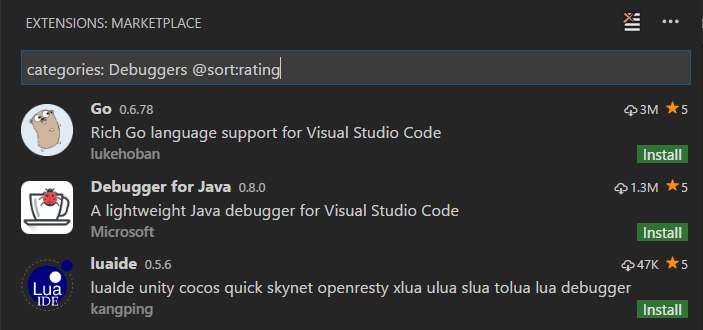
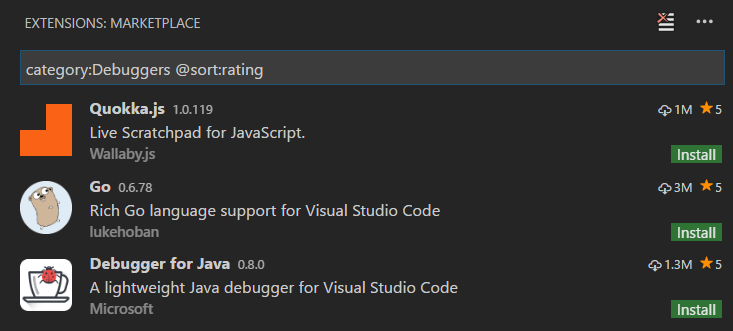
Update Marketplace category and tag filters

diff --git a/docs/editor/extension-gallery.md b/docs/editor/extension-gallery.md
@@ -136,11 +136,11 @@ Extensions can set **Categories** and **Tags** describing their features.
 
 ![extension categories and tags](images/extension-gallery/categories-and-tags.png)
 
-You can filter on category and tag by using `categories:` and `tags:`.
+You can filter on category and tag by using `category:` and `tag:`.
 
 ![categories debuggers](images/extension-gallery/categories-debuggers.png)
 
-Supported categories are: `[Programming Languages, Snippets, Linters, Themes, Debuggers, Formatters, Keymaps, SCM Providers, Other, Extension Packs, Language Packs]`. Tags may contain any string so review the Marketplace to find helpful tags.
+Supported categories are: `[Programming Languages, Snippets, Linters, Themes, Debuggers, Formatters, Keymaps, SCM Providers, Other, Extension Packs, Language Packs]`. Surround the category in quotes if the category name is more than one word (for example, `category:"SCM Providers"`). Tags may contain any string so review the Marketplace to find helpful tags.
 
 ## Install from a VSIX
 

diff --git a/docs/extensionAPI/extension-manifest.md b/docs/extensionAPI/extension-manifest.md
@@ -23,7 +23,7 @@ Name | Required | Type | Details
 `displayName` | | `string`| The display name for the extension used in the Marketplace.
 `description` | | `string` | A short description of what your extension is and does.
 `categories` | | `string[]` | the categories you want to use for the extensions allowed values: `[Programming Languages, Snippets, Linters, Themes, Debuggers, Formatters, Keymaps, SCM Providers, Other, Extension Packs, Language Packs]`
-`keywords` | | `array` | An array of **keywords** or **tags** to make it easier to find the extension.
+`keywords` | | `array` | An array of **keywords** to make it easier to find the extension. These are included with other extension **Tags** on the Marketplace.
 `galleryBanner` | | `object` | Helps format the Marketplace header to match your icon.  See details below.
 `preview` | | `boolean` | Sets the extension to be flagged as a Preview in the Marketplace.
 `main` | | `string` | The entry point to your extension.

diff --git a/blogs/2017/03/07/extension-pack-roundup.md b/blogs/2017/03/07/extension-pack-roundup.md
@@ -65,7 +65,7 @@ There are many reasons to create an Extension Pack:
 
 ## Recommended Extension Packs
 
-You can find the Extension Packs that others have created by querying using the Extension Pack category: click [here](https://marketplace.visualstudio.com/search?target=vscode&category=Extension%20Packs&sortBy=Downloads) for the Marketplace or type `categories:"Extension Pack"` into the Extension View search bar in VS Code.
+You can find the Extension Packs that others have created by querying using the Extension Pack category: click [here](https://marketplace.visualstudio.com/search?target=vscode&category=Extension%20Packs&sortBy=Downloads) for the Marketplace or type `category:"Extension Packs"` into the Extension View search bar in VS Code.
 
 Some of my favorite extensions are:
 

diff --git a/docs/nodejs/extensions.md b/docs/nodejs/extensions.md
@@ -18,7 +18,7 @@ In addition, to these core features, you can install a large number of quality e
 
 ## Finding extensions
 
-You can find JavaScript extensions by typing `JavaScript` in the Extension view search bar. Alternatively, you can find JavaScript extensions using tags: "tag: javascript". Search for more extensions in VS Code or in the [Marketplace](https://marketplace.visualstudio.com/vscode).
+You can find JavaScript extensions by typing `JavaScript` in the Extension view search bar. Alternatively, you can find JavaScript extensions using tags: "tag:javascript". Search for more extensions in VS Code or in the [Marketplace](https://marketplace.visualstudio.com/vscode).
 
 <div class="marketplace-extensions-javascript"></div>
 
